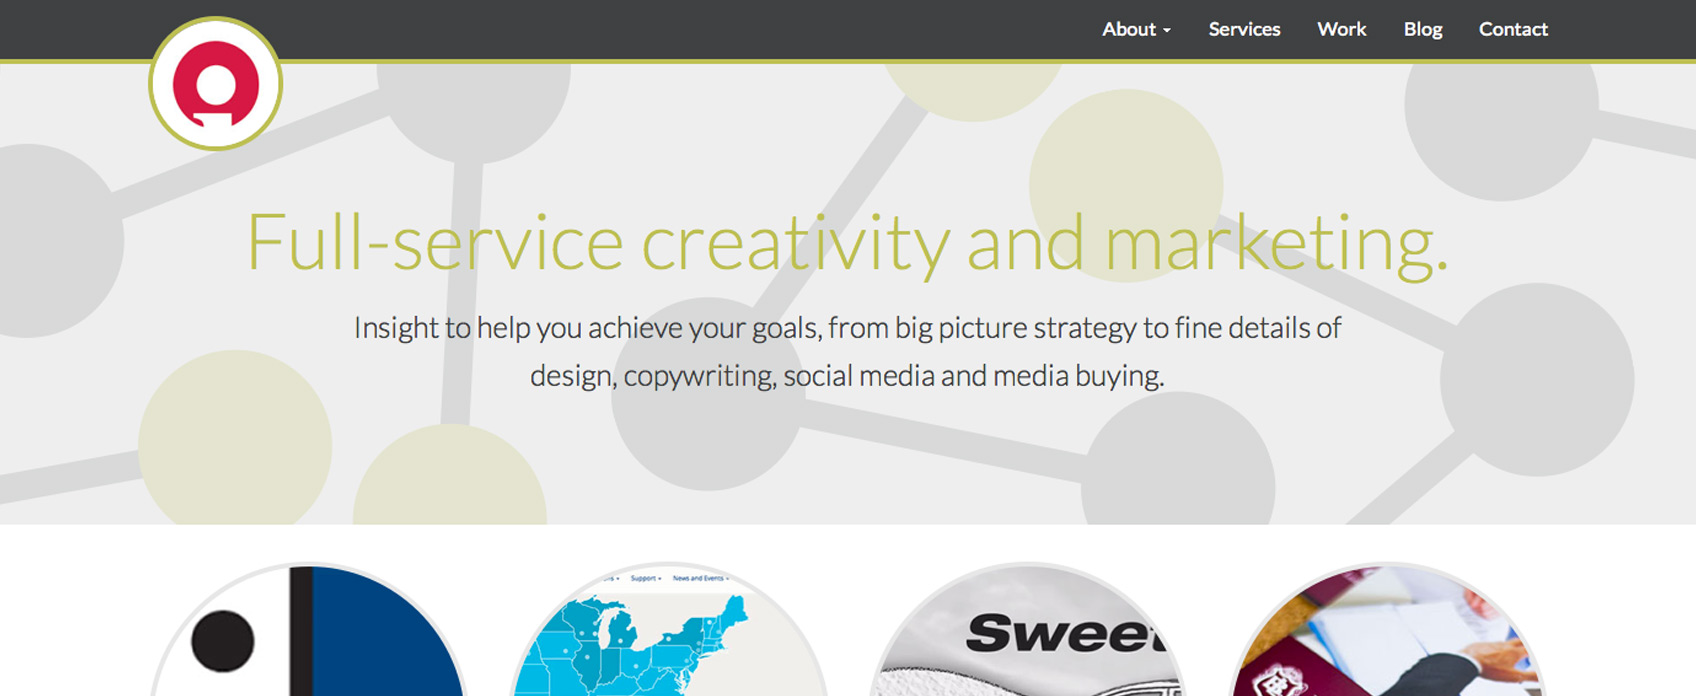
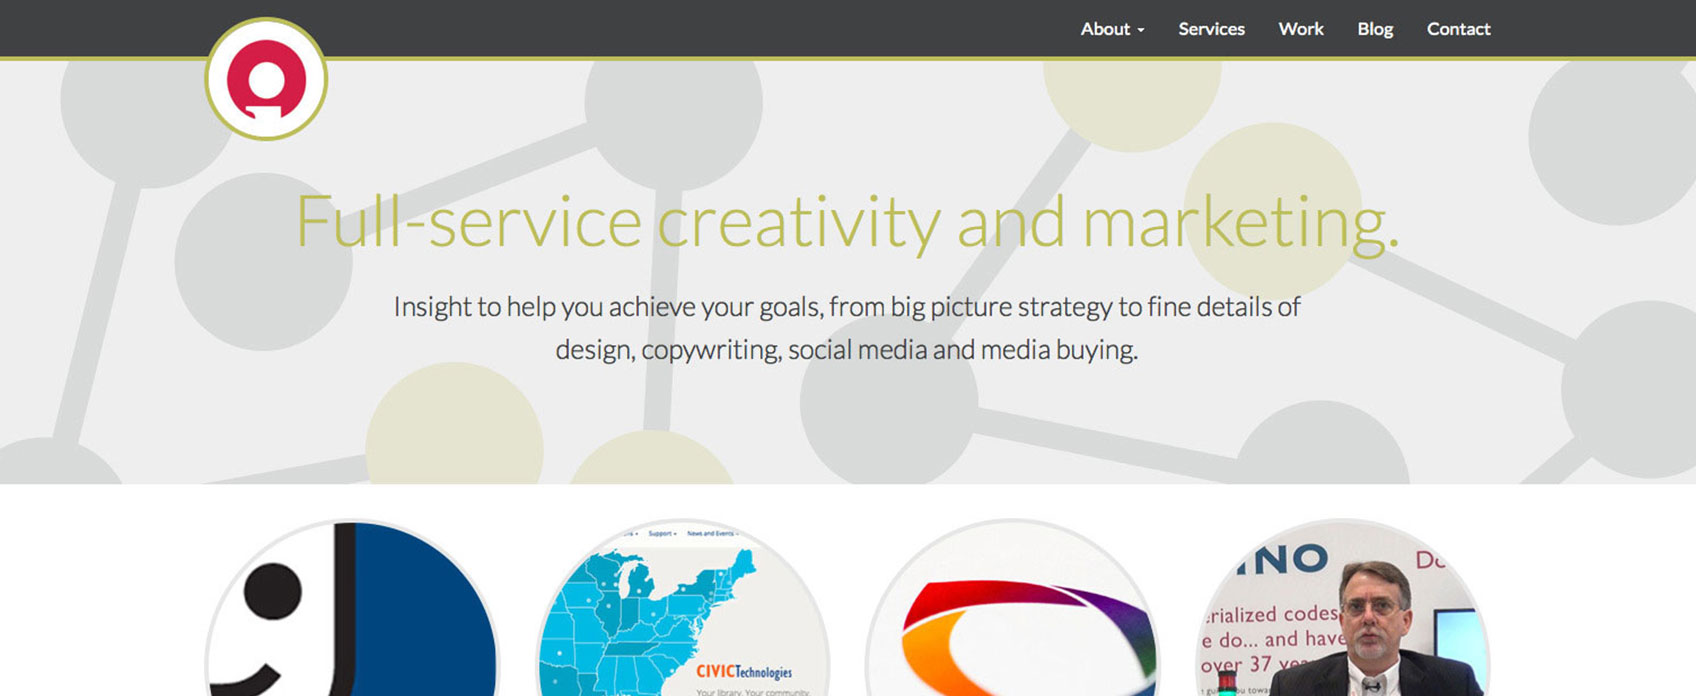
Add more project images.

Changed region(s): [[0.0, 0.0, 1.0, 1.0], [0.625, 0.694, 0.75, 0.7543], [0.4062, 0.694, 0.4375, 0.7241]]

diff --git a/_posts/2014-06-12-insight-creative-website.md b/_posts/2014-06-12-insight-creative-website.md
@@ -1,5 +1,7 @@
 ---
 layout: default
 image: insight-website-thumbnail.jpg
-category: featured
 ---
+
+![Insight Creative Website](/img/insight-website-1.jpg)
+![Insight Creative Website](/img/insight-website-2.jpg)
